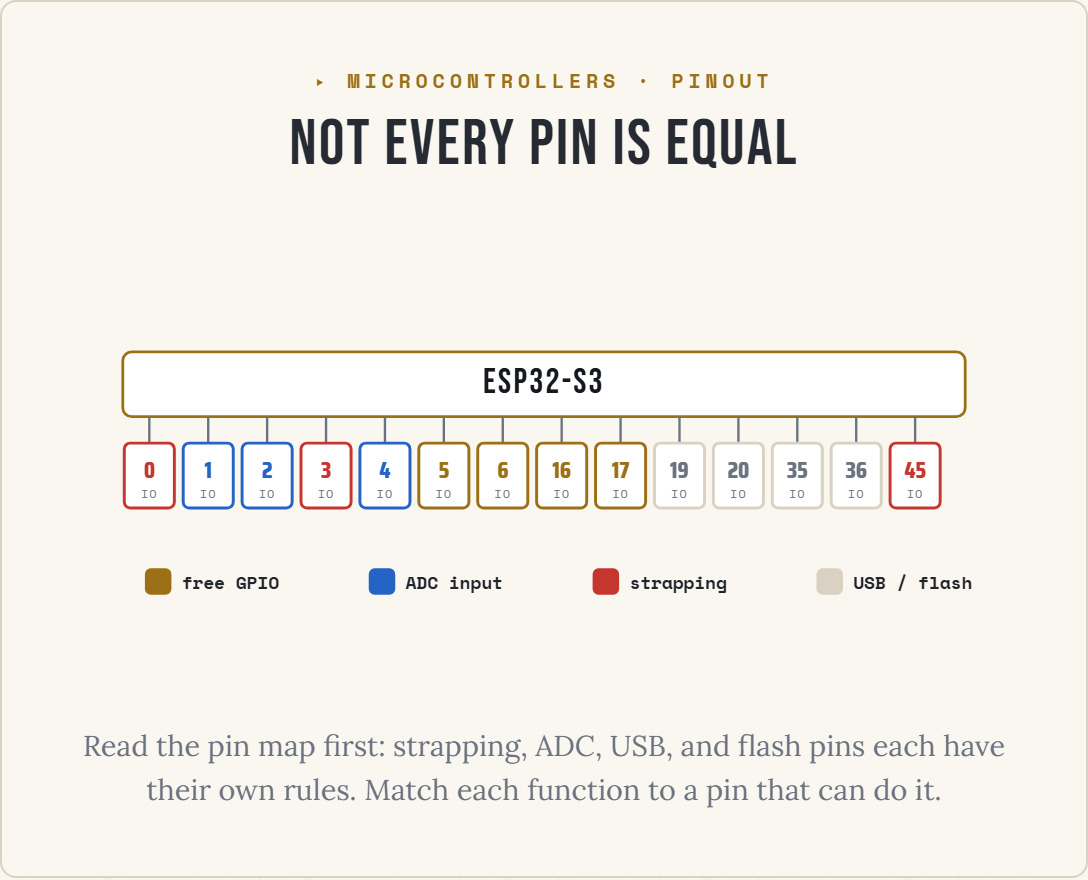
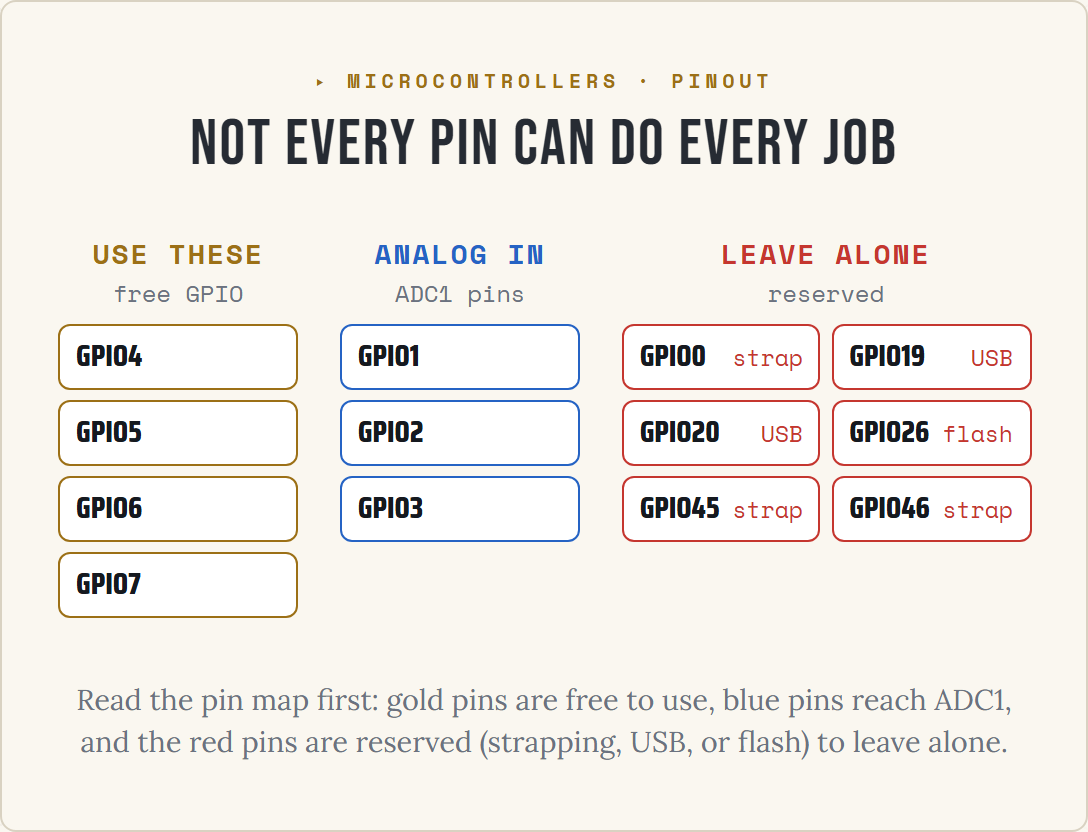
redo(diagrams): mcu-pinout-map — grouped, on-palette (11/11)
Final MCU diagram, and the biggest palette fix. The rejected version used four
equal category hues; this one is on-doctrine: gold = free GPIO to use, blue =
ADC1-capable, red = reserved (strapping, USB, or on-module flash) to leave alone,
each tagged. Grouped as the lesson's own checklist (use these / analog in / leave
alone) with real ESP32-S3 pin assignments. HTML chips, crisp text, columns wrap
on a phone; reserved runs as a 2-col grid to keep the figure landscape (1.34).

Completes all 11 Microcontrollers-cluster diagrams, rebuilt to the OTD house bar.

diff --git a/src/components/guide/diagrams/McuPinoutMap.tsx b/src/components/guide/diagrams/McuPinoutMap.tsx
@@ -1,126 +1,89 @@
-// Reading the pinout: not every pin is equal (v2). Microcontrollers cluster.
+// Reading the pinout, grouped by usability (diagram-standards v2).
+// MCU cluster, diagram 11 (final). Owner-picked P2.
 //
-// Teaching point: before you wire, read the pin map. Some pins are strapping
-// (keep them free), some reach the ADC, some are the USB pair or on-module flash
-// (reserved), and the rest are free GPIO. Match each function to a pin that can
-// do it.
+// Teaching point (lesson 10): not every pin can do every job, so read the pin map
+// before you wire. Three groups: the general-purpose pins free to use (gold), the
+// ADC1-capable analog inputs (blue), and the reserved pins to leave alone (red),
+// each tagged with why (strapping, USB, or on-module flash). Assign your signals
+// to the pins that are left. Pin functions are real ESP32-S3 assignments.
 //
-// Landscape desktop/print: the module with a row of pins, each flagged by
-// category colour, plus a legend. REFLOWS on a phone to a category list. Colours
-// stay on-palette: gold free, blue ADC, red strapping (caution), muted reserved.
+// HTML groups, so the text stays crisp and the columns stack on a phone. Token
+// color, both themes. Header + caption from the DiagramFrame.
 import { DiagramFrame } from "./DiagramFrame";
 
-type Cat = "free" | "adc" | "strap" | "rsvd";
-const PINS: { io: string; cat: Cat }[] = [
-  { io: "0", cat: "strap" }, { io: "1", cat: "adc" }, { io: "2", cat: "adc" },
-  { io: "3", cat: "strap" }, { io: "4", cat: "adc" }, { io: "5", cat: "free" },
-  { io: "6", cat: "free" }, { io: "16", cat: "free" }, { io: "17", cat: "free" },
-  { io: "19", cat: "rsvd" }, { io: "20", cat: "rsvd" }, { io: "35", cat: "rsvd" },
-  { io: "36", cat: "rsvd" }, { io: "45", cat: "strap" },
-];
-const CATCLASS: Record<Cat, string> = { free: "pn-free", adc: "pn-adc", strap: "pn-strap", rsvd: "pn-rsvd" };
-const LEGEND: { cat: Cat; label: string }[] = [
-  { cat: "free", label: "free GPIO" },
-  { cat: "adc", label: "ADC input" },
-  { cat: "strap", label: "strapping" },
-  { cat: "rsvd", label: "USB / flash" },
+const GROUPS = [
+  { cls: "use", h: "USE THESE", sub: "free GPIO", pins: [{ n: "GPIO4" }, { n: "GPIO5" }, { n: "GPIO6" }, { n: "GPIO7" }] },
+  { cls: "adc", h: "ANALOG IN", sub: "ADC1 pins", pins: [{ n: "GPIO1" }, { n: "GPIO2" }, { n: "GPIO3" }] },
+  {
+    cls: "res", h: "LEAVE ALONE", sub: "reserved", pins: [
+      { n: "GPIO0", tag: "strap" }, { n: "GPIO19", tag: "USB" }, { n: "GPIO20", tag: "USB" },
+      { n: "GPIO26", tag: "flash" }, { n: "GPIO45", tag: "strap" }, { n: "GPIO46", tag: "strap" },
+    ],
+  },
 ];
 
 export function McuPinoutMap({ caption }: { caption?: string }) {
-  const cx = (i: number) => 62 + i * 40;
   return (
     <DiagramFrame
       eyebrow="MICROCONTROLLERS · PINOUT"
       tone="gold"
-      title="Not every pin is equal"
-      ariaLabel="An annotated ESP32-S3 pin map. A row of pins runs along the module, each flagged by category. Free general-purpose GPIO pins are gold. ADC-capable pins, for analog input, are blue. Strapping pins, which must be kept free at reset or the board will not boot, are red. The USB pair and the on-module flash pins are reserved and shown muted. A legend maps the colours. Read the map and match each function to a pin that can actually do it before you wire."
+      title="Not every pin can do every job"
+      ariaLabel="An ESP32-S3 pin map grouped by how you can use each pin. The first group, in gold, is the general-purpose pins free to use: GPIO4, GPIO5, GPIO6, GPIO7. The second, in blue, is the ADC1-capable analog inputs: GPIO1, GPIO2, GPIO3. The third, in red, is the reserved pins to leave alone, each tagged with why: GPIO0, GPIO45, and GPIO46 are strapping pins, GPIO19 and GPIO20 are the native USB pair, and GPIO26 is wired to the on-module flash. Read the map and wire your signals to the pins that are free."
       caption={caption}
-      defaultCaption="Read the pin map first: strapping, ADC, USB, and flash pins each have their own rules. Match each function to a pin that can do it."
+      defaultCaption="Read the pin map first: gold pins are free to use, blue pins reach ADC1, and the red pins are reserved (strapping, USB, or flash) to leave alone."
     >
       <style>{CSS}</style>
-
-      <div className="pn">
-        {/* desktop / print */}
-        <svg className="pn-scene" viewBox="0 0 660 300" aria-hidden="true">
-          {/* module body */}
-          <rect className="pn-mod" x={44} y={80} width={572} height={44} rx={6} />
-          <text className="pn-modt" x={330} y={108} textAnchor="middle">ESP32-S3</text>
-
-          {/* pins */}
-          {PINS.map((p, i) => {
-            const x = cx(i);
-            return (
-              <g key={p.io} className={CATCLASS[p.cat]}>
-                <line className="pn-stub" x1={x} y1={124} x2={x} y2={142} />
-                <rect className="pn-cell" x={x - 17} y={142} width={34} height={44} rx={4} />
-                <text className="pn-io" x={x} y={166} textAnchor="middle">{p.io}</text>
-                <text className="pn-iolbl" x={x} y={179} textAnchor="middle">IO</text>
-              </g>
-            );
-          })}
-
-          {/* legend */}
-          {LEGEND.map((l, i) => {
-            const lx = 60 + i * 152;
-            return (
-              <g key={l.cat} className={CATCLASS[l.cat]}>
-                <rect className="pn-sw" x={lx} y={228} width={16} height={16} rx={3} />
-                <text className="pn-lgl" x={lx + 24} y={241}>{l.label}</text>
-              </g>
-            );
-          })}
-        </svg>
-
-        {/* phone reflow */}
-        <div className="pn-phone" aria-hidden="true">
-          <p className="pn-plead">Not every pin can do every job. Read the map before you wire:</p>
-          <ul className="pn-plist">
-            <li className="pn-free"><span className="pn-pdot" />free GPIO</li>
-            <li className="pn-adc"><span className="pn-pdot" />ADC input</li>
-            <li className="pn-strap"><span className="pn-pdot" />strapping · keep free at reset</li>
-            <li className="pn-rsvd"><span className="pn-pdot" />USB pair / on-module flash · reserved</li>
-          </ul>
-        </div>
+      <div className="po">
+        {GROUPS.map((g) => (
+          <div key={g.cls} className={`po-col po-${g.cls}`}>
+            <p className="po-h">{g.h}</p>
+            <p className="po-sub">{g.sub}</p>
+            <div className="po-chips">
+              {g.pins.map((p) => (
+                <div key={p.n} className="po-chip">
+                  <span className="po-pin">{p.n}</span>
+                  {"tag" in p && p.tag ? <span className="po-tag">{p.tag}</span> : null}
+                </div>
+              ))}
+            </div>
+          </div>
+        ))}
       </div>
     </DiagramFrame>
   );
 }
 
 const CSS = `
-.pn{display:block;}
-.pn-scene{display:block;width:100%;height:auto;overflow:visible;}
-.pn-mod{fill:var(--color-navy-dark,#1a1a2e);stroke:var(--color-command-gold,#c8963e);stroke-width:1.9;}
-.pn-modt{font-family:var(--font-display,"Bebas Neue",sans-serif);font-size:24px;letter-spacing:.06em;fill:var(--color-title,#f1ece0);}
-.pn-stub{stroke:var(--color-muted,#aaa);stroke-width:1.6;}
-.pn-cell{fill:var(--color-navy-dark,#1a1a2e);stroke-width:2;}
-.pn-io{font-family:var(--font-numeral,"Saira Condensed",sans-serif);font-weight:800;font-size:16px;}
-.pn-iolbl{font-family:var(--font-mono,"Space Mono",monospace);font-weight:400;font-size:8px;letter-spacing:.1em;fill:var(--color-muted,#aaa);}
-.pn-sw{stroke-width:2;}
-.pn-lgl{font-family:var(--font-mono,"Space Mono",monospace);font-weight:700;font-size:12px;fill:var(--color-text,#e8e8e8);}
+.po{display:flex;gap:clamp(.55rem,3vw,1.3rem);justify-content:center;align-items:flex-start;max-width:36rem;margin-inline:auto;}
+.po-col{flex:1 1 0;min-width:0;}
+.po-res{flex:1.7 1 0;}
+.po-res .po-chips{display:grid;grid-template-columns:1fr 1fr;gap:.32rem;}
+.po-res .po-chip{margin-bottom:0;}
+@media (max-width:520px){ .po{flex-wrap:wrap;} .po-col{flex:1 1 8rem;} .po-res{flex:1 1 100%;} }
+.po-h{margin:0;font-family:var(--font-mono,"Space Mono",monospace);font-weight:700;
+  font-size:clamp(.74rem,2.1vw,.86rem);letter-spacing:.08em;}
+.po-sub{margin:.05rem 0 .4rem;font-family:var(--font-mono,"Space Mono",monospace);
+  font-size:clamp(.66rem,1.7vw,.74rem);color:var(--color-muted,#aaaaaa);}
+.po-chip{display:flex;align-items:center;justify-content:space-between;gap:.4rem;
+  border:1.5px solid var(--color-panel-border,#3a3f50);border-radius:6px;
+  padding:.26rem .5rem;margin-bottom:.32rem;background:var(--color-navy-dark,#1a1a2e);}
+.po-pin{font-family:var(--font-numeral,"Saira Condensed",sans-serif);font-weight:700;
+  font-size:clamp(.82rem,2.3vw,.94rem);color:var(--color-title,#f1ece0);}
+.po-tag{font-family:var(--font-mono,"Space Mono",monospace);font-size:clamp(.62rem,1.6vw,.72rem);}
+.po-use .po-h{color:var(--color-command-gold,#c8963e);}
+.po-use .po-chip{border-color:var(--color-command-gold,#c8963e);}
+.po-adc .po-h{color:var(--color-signal-blue,#4a8fff);}
+.po-adc .po-chip{border-color:var(--color-signal-blue,#4a8fff);}
+.po-res .po-h{color:var(--color-alert-red,#ef5350);}
+.po-res .po-chip{border-color:var(--color-alert-red,#ef5350);}
+.po-res .po-tag{color:var(--color-alert-red,#ef5350);}
 
-/* category colours (on-palette) */
-.pn-free .pn-cell,.pn-free .pn-sw{stroke:var(--color-command-gold,#c8963e);}
-.pn-free .pn-io{fill:var(--color-command-gold,#c8963e);}
-.pn-free .pn-sw{fill:var(--color-command-gold,#c8963e);}
-.pn-adc .pn-cell,.pn-adc .pn-sw{stroke:var(--color-signal-blue,#4a8fff);}
-.pn-adc .pn-io{fill:var(--color-signal-blue,#4a8fff);}
-.pn-adc .pn-sw{fill:var(--color-signal-blue,#4a8fff);}
-.pn-strap .pn-cell,.pn-strap .pn-sw{stroke:var(--color-alert-red,#ef5350);}
-.pn-strap .pn-io{fill:var(--color-alert-red,#ef5350);}
-.pn-strap .pn-sw{fill:var(--color-alert-red,#ef5350);}
-.pn-rsvd .pn-cell,.pn-rsvd .pn-sw{stroke:var(--color-panel-border,#3a3f50);}
-.pn-rsvd .pn-io{fill:var(--color-muted,#aaa);}
-.pn-rsvd .pn-sw{fill:var(--color-panel-border,#3a3f50);}
-
-/* phone reflow */
-.pn-phone{display:none;}
-@media (max-width:520px){ .pn-scene{display:none;} .pn-phone{display:block;} }
-.pn-plead{margin:0 0 .5rem;font-family:var(--font-serif,"Lora",serif);font-size:.95rem;line-height:1.5;color:var(--color-text,#e8e8e8);}
-.pn-plist{list-style:none;margin:0;padding:0;}
-.pn-plist li{display:flex;align-items:center;gap:.5rem;font-family:var(--font-mono,"Space Mono",monospace);font-weight:700;font-size:.86rem;color:var(--color-text,#e8e8e8);margin-bottom:.45rem;}
-.pn-pdot{width:14px;height:14px;border-radius:3px;flex:none;}
-.pn-free .pn-pdot{background:var(--color-command-gold,#c8963e);}
-.pn-adc .pn-pdot{background:var(--color-signal-blue,#4a8fff);}
-.pn-strap .pn-pdot{background:var(--color-alert-red,#ef5350);}
-.pn-rsvd .pn-pdot{background:var(--color-panel-border,#3a3f50);}
+/* Tier-B reveal off the frame's armed/in contract (final state under reduced-motion). */
+.dgfrm.armed .po-col{opacity:0;transform:translateY(6px);}
+.dgfrm.armed.in .po-col{opacity:1;transform:none;transition:opacity .5s ease,transform .5s cubic-bezier(.2,.7,.2,1);}
+.dgfrm.armed.in .po-col:nth-child(2){transition-delay:.1s;}
+.dgfrm.armed.in .po-col:nth-child(3){transition-delay:.2s;}
+@media (prefers-reduced-motion:reduce){
+  .dgfrm .po-col{opacity:1!important;transform:none!important;transition:none!important;}
+}
 `;
